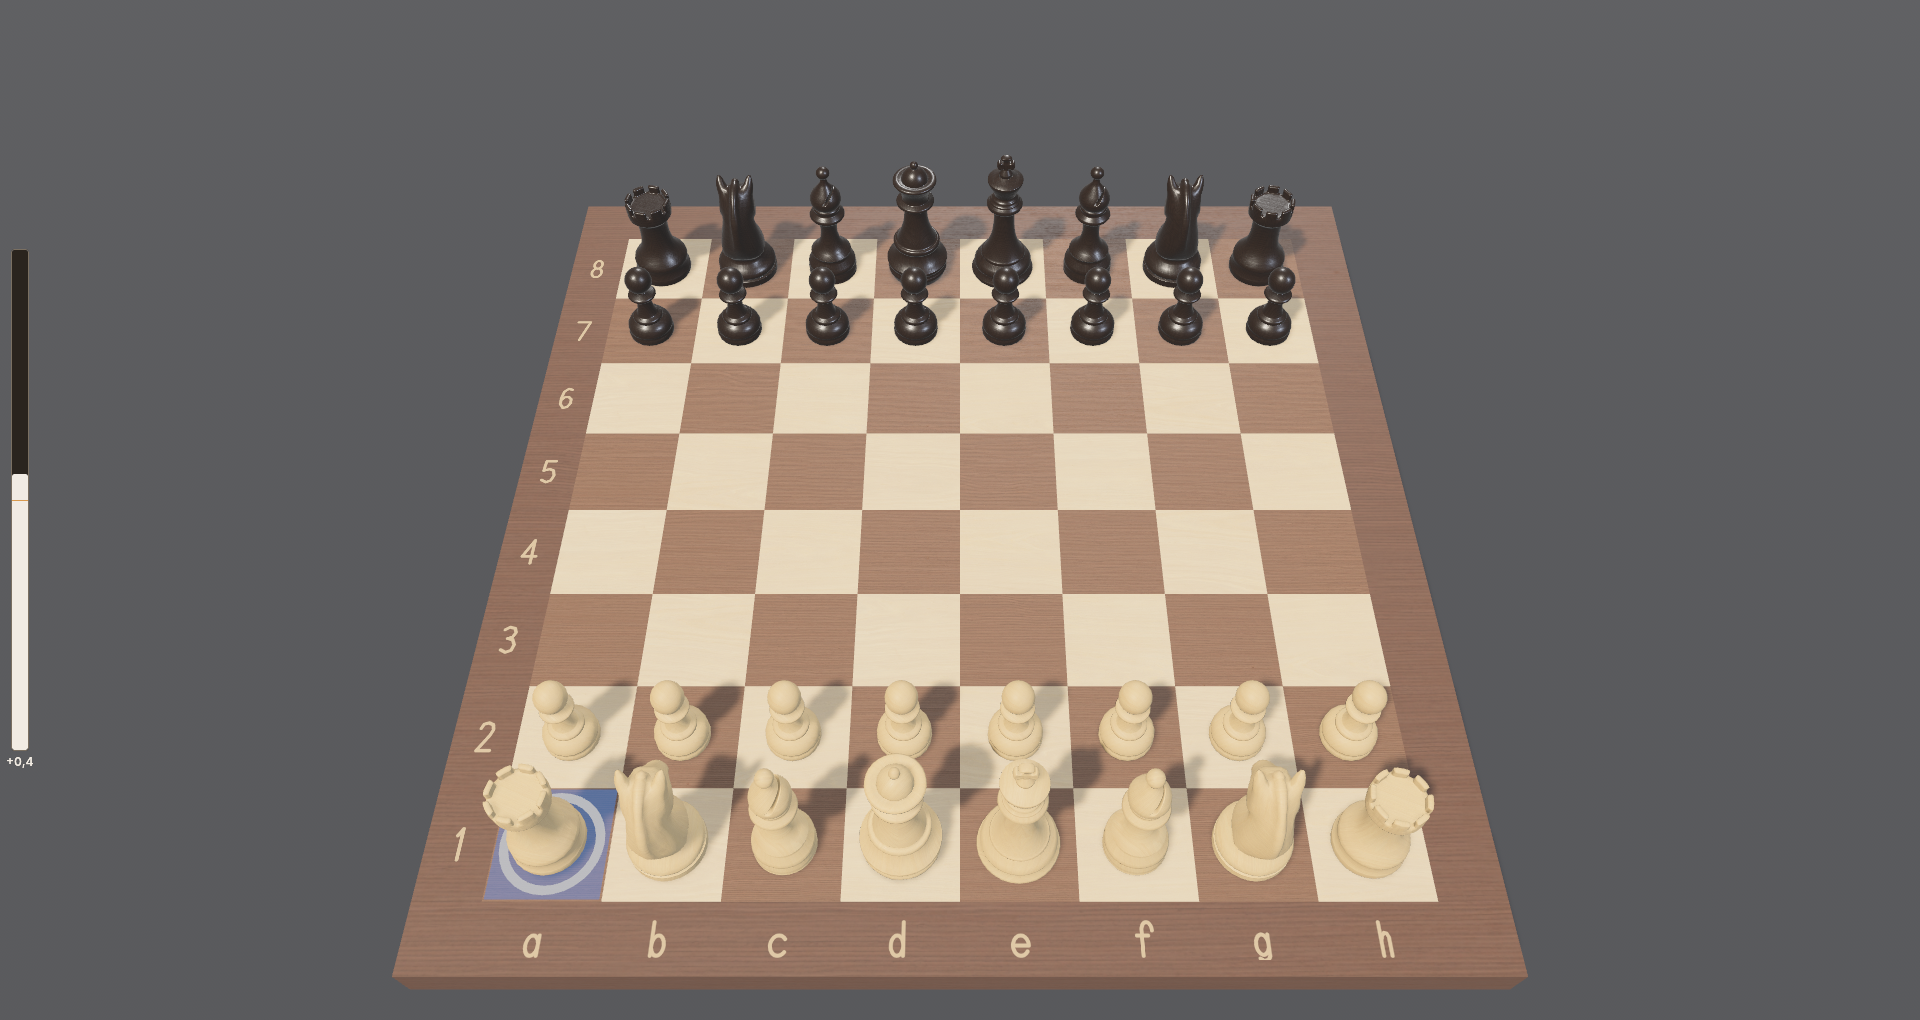
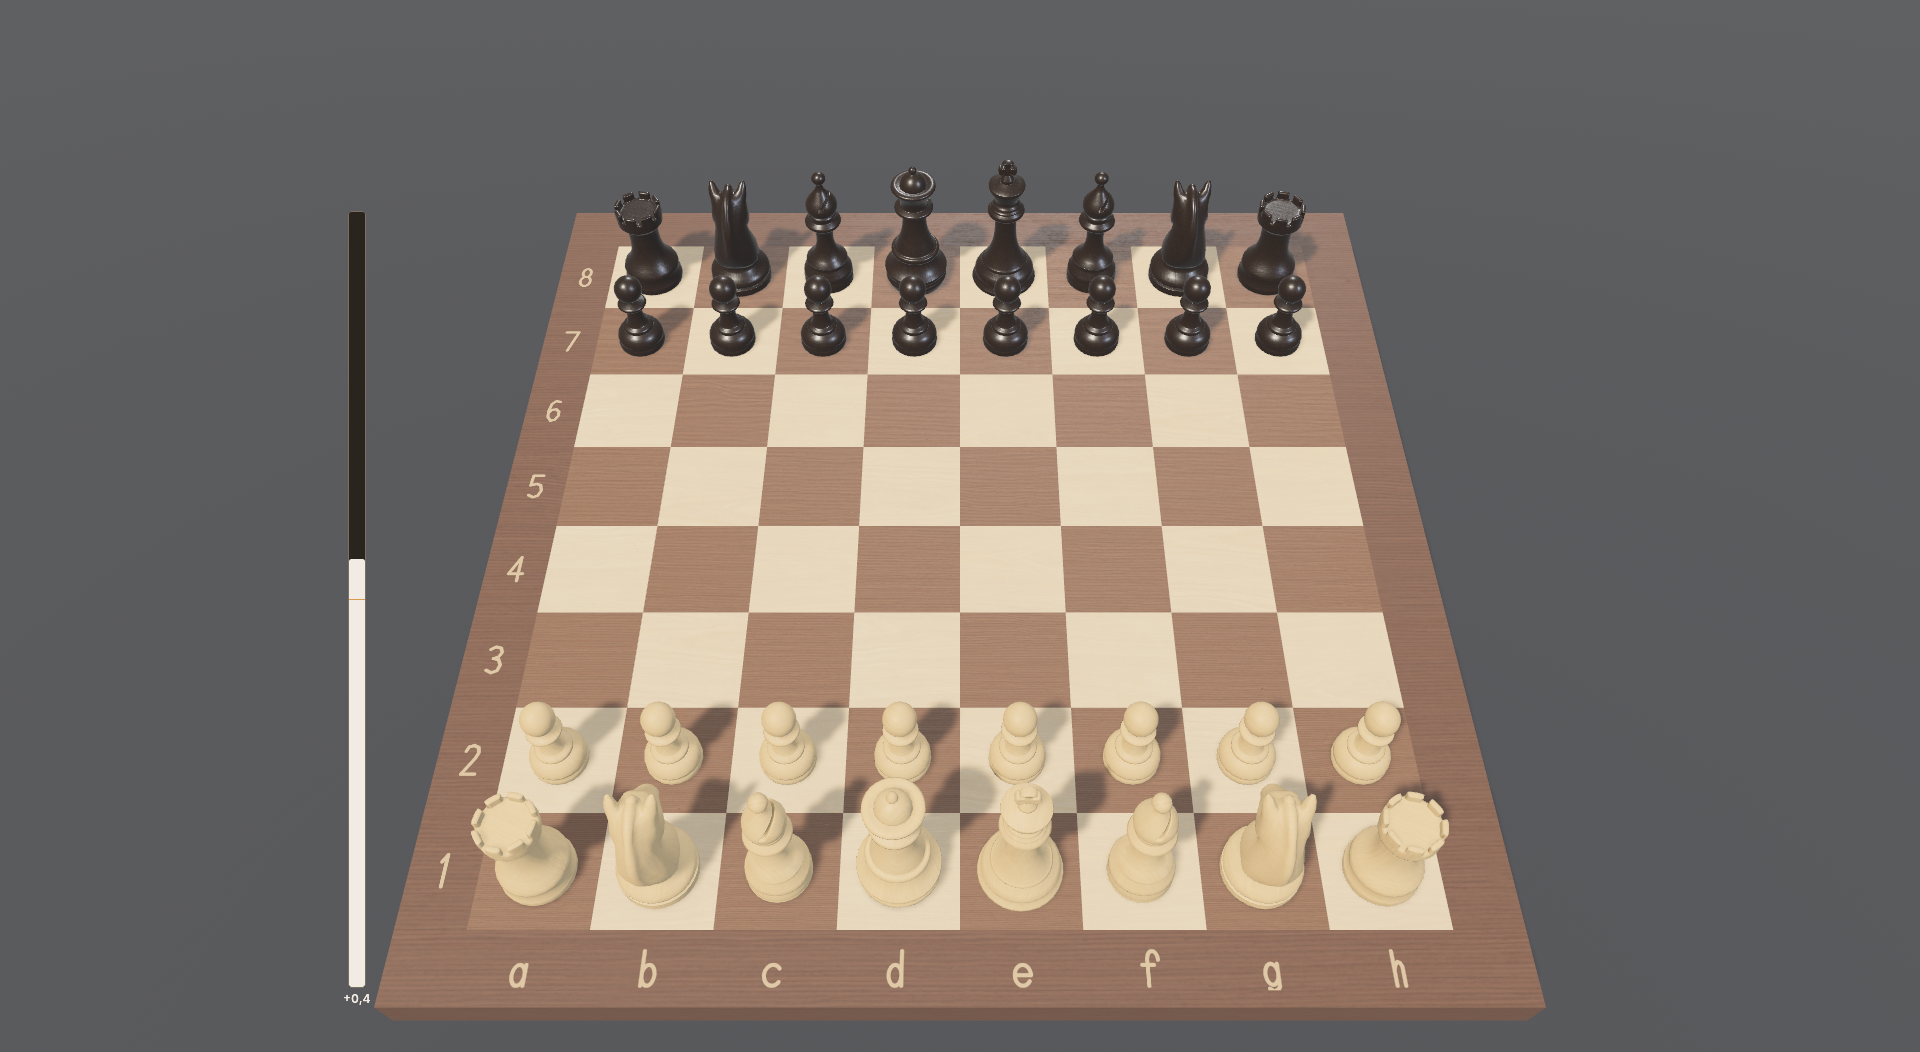
feat(ui): barra de avaliação colada ao tabuleiro projetado pela câmera (#165)

diff --git a/crates/chess-studio/src/eval_bar.rs b/crates/chess-studio/src/eval_bar.rs
@@ -6,9 +6,10 @@
 
 use crate::analysis::{Analysis, Status};
 use crate::board2d_panel::{Orientation, orientation_for};
-use crate::camera::CameraRig;
+use crate::camera::{CameraRig, MainCamera};
 use crate::dock::Dock;
 use crate::presentation::Presentation;
+use crate::presentation::TechnicalCamera;
 use crate::ui_theme::{Palette, ThemeKind, Tokens, strong_font};
 use bevy::prelude::*;
 use bevy_egui::{EguiContexts, EguiPrimaryContextPass, egui};
@@ -91,6 +92,73 @@ pub fn demo_score(arg: &str) -> Option<Score> {
         .then(|| Score::Cp((pawns * 100.0).round().clamp(-100_000.0, 100_000.0) as i32))
 }
 
+/// Retângulo da barra colada ao tabuleiro: à esquerda da caixa `bbox` (o tabuleiro projetado
+/// na tela), com `gap` de folga, da altura dela (o rótulo cabe no pé), sempre dentro de `area`.
+pub fn glued_bar_rect(
+    bbox: egui::Rect,
+    area: egui::Rect,
+    width: f32,
+    label_h: f32,
+    gap: f32,
+) -> egui::Rect {
+    let x = (bbox.min.x - gap - width).clamp(area.min.x, (area.max.x - width).max(area.min.x));
+    let top = bbox.min.y.clamp(area.min.y, area.max.y);
+    let bottom = (bbox.max.y - label_h).clamp(area.min.y, (area.max.y - label_h).max(area.min.y));
+    let bottom = bottom.max(top + 32.0);
+    egui::Rect::from_min_max(egui::pos2(x, top), egui::pos2(x + width, bottom))
+}
+
+/// As câmeras do tabuleiro (3D e 2D técnico); só a ativa conta.
+type BoardCameras<'w, 's> = Query<
+    'w,
+    's,
+    (
+        &'static Camera,
+        &'static GlobalTransform,
+        Has<TechnicalCamera>,
+    ),
+    Or<(With<MainCamera>, With<TechnicalCamera>)>,
+>;
+
+/// Meia-largura da moldura do tabuleiro (igual à de `framing`).
+const FRAME_HALF: f32 = chess_input::BOARD_SIZE / 2.0 + 0.6;
+
+/// Caixa, em pontos do egui, do tabuleiro (moldura) visto pela câmera ativa. Sem alocação.
+fn projected_board(
+    cameras: &BoardCameras<'_, '_>,
+    scale_factor: f32,
+    ppp: f32,
+) -> Option<egui::Rect> {
+    let (camera, transform, technical) = cameras.iter().find(|(c, _, _)| c.is_active)?;
+    let offset = camera
+        .viewport
+        .as_ref()
+        .map_or(Vec2::ZERO, |v| v.physical_position.as_vec2());
+    let mut bbox: Option<egui::Rect> = None;
+    // 3D: a moldura no plano XZ. 2D técnico: o tabuleiro no plano XY, com a faixa das
+    // coordenadas (números à esquerda) incluída para a barra não cobri-las.
+    let half = if technical {
+        (chess_input::BOARD_SIZE / 2.0 + 0.7) * crate::board2d::UNIT
+    } else {
+        FRAME_HALF
+    };
+    for (x, z) in [(-half, -half), (half, -half), (half, half), (-half, half)] {
+        let world = if technical {
+            Vec3::new(x, z, 0.0)
+        } else {
+            Vec3::new(x, 0.0, z)
+        };
+        let at = camera.world_to_viewport(transform, world).ok()?;
+        let point = (at * scale_factor + offset) / ppp;
+        let point = egui::pos2(point.x, point.y);
+        bbox = Some(match bbox {
+            Some(b) => b.union(egui::Rect::from_min_max(point, point)),
+            None => egui::Rect::from_min_max(point, point),
+        });
+    }
+    bbox
+}
+
 pub struct EvalBarPlugin;
 
 impl Plugin for EvalBarPlugin {
@@ -119,6 +187,8 @@ fn eval_bar_ui(
     view: Option<Res<crate::focus::ViewState>>,
     capture: Option<Res<crate::capture::CaptureMode>>,
     mut demo: Local<Option<Option<Score>>>,
+    cameras: BoardCameras,
+    window: Option<Single<&Window, With<bevy::window::PrimaryWindow>>>,
     mut cache: Local<Cached>,
 ) -> Result {
     let forced = *demo.get_or_insert_with(|| {
@@ -158,12 +228,17 @@ fn eval_bar_ui(
     let radius = tokens.length("radius-s").unwrap_or(4.0) as u8;
     let font = strong_font(ctx, 12.0);
     let label_h = 20.0;
-    let bar = bar_rect(area, width, label_h);
+    let gap = tokens.length("space-2").unwrap_or(8.0);
+    let scale_factor = window.map_or(1.0, |w| w.scale_factor());
+    let bar = match projected_board(&cameras, scale_factor, ctx.pixels_per_point()) {
+        Some(bbox) => glued_bar_rect(bbox, area, width, label_h, gap),
+        None => bar_rect(area, width, label_h),
+    };
     let (white_h, from_bottom) = white_extent(eval_fill(score), bar.height(), orientation);
     let label = cache.label.as_str();
     // Sem interação: o ponteiro continua do tabuleiro (órbita, picking).
     egui::Area::new(egui::Id::new("chess-studio-eval-bar"))
-        .order(egui::Order::Background)
+        .order(egui::Order::Foreground)
         .fixed_pos(bar.min)
         .interactable(false)
         .show(ctx, |ui| {
@@ -279,6 +354,27 @@ mod tests {
         assert_eq!((h, bottom), (150.0, true));
         let (h, bottom) = white_extent(0.75, 200.0, Orientation::BlackBottom);
         assert_eq!((h, bottom), (150.0, false));
+    }
+
+    #[test]
+    fn the_bar_is_glued_to_the_left_of_the_projected_board() {
+        let area = egui::Rect::from_min_max(egui::pos2(0.0, 0.0), egui::pos2(1600.0, 1000.0));
+        let bbox = egui::Rect::from_min_max(egui::pos2(400.0, 200.0), egui::pos2(1200.0, 900.0));
+        let bar = glued_bar_rect(bbox, area, 16.0, 20.0, 8.0);
+        assert_eq!(bar.max.x + 8.0, bbox.min.x);
+        assert_eq!(bar.width(), 16.0);
+        assert_eq!(bar.min.y, 200.0);
+        assert_eq!(bar.max.y + 20.0, 900.0);
+        assert!(area.contains_rect(bar));
+    }
+
+    #[test]
+    fn a_board_against_the_edge_keeps_the_bar_inside_the_area() {
+        let area = egui::Rect::from_min_max(egui::pos2(0.0, 40.0), egui::pos2(1000.0, 700.0));
+        let bbox = egui::Rect::from_min_max(egui::pos2(5.0, -50.0), egui::pos2(900.0, 800.0));
+        let bar = glued_bar_rect(bbox, area, 16.0, 20.0, 8.0);
+        assert!(area.contains_rect(bar), "{bar:?}");
+        assert!(bar.height() >= 32.0);
     }
 
     #[test]
